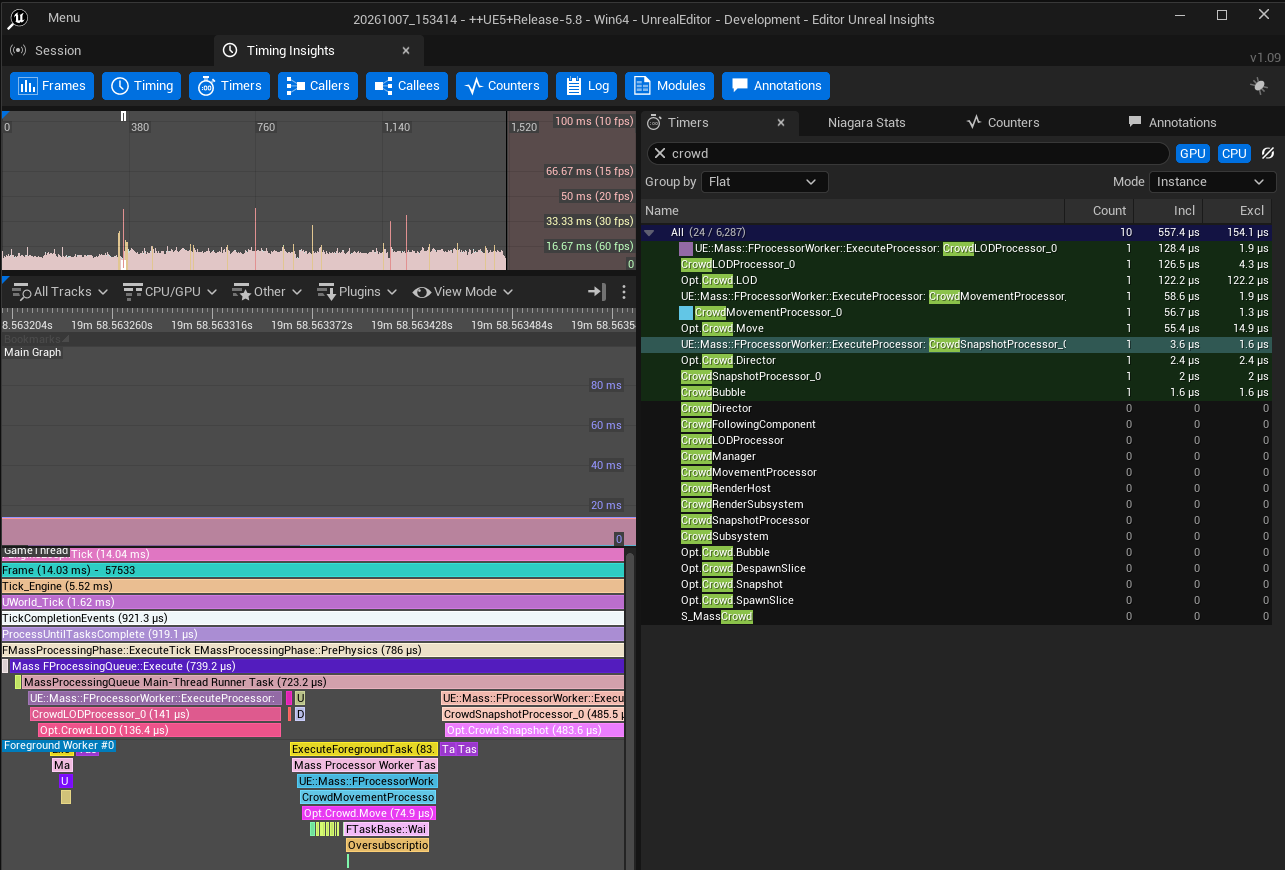
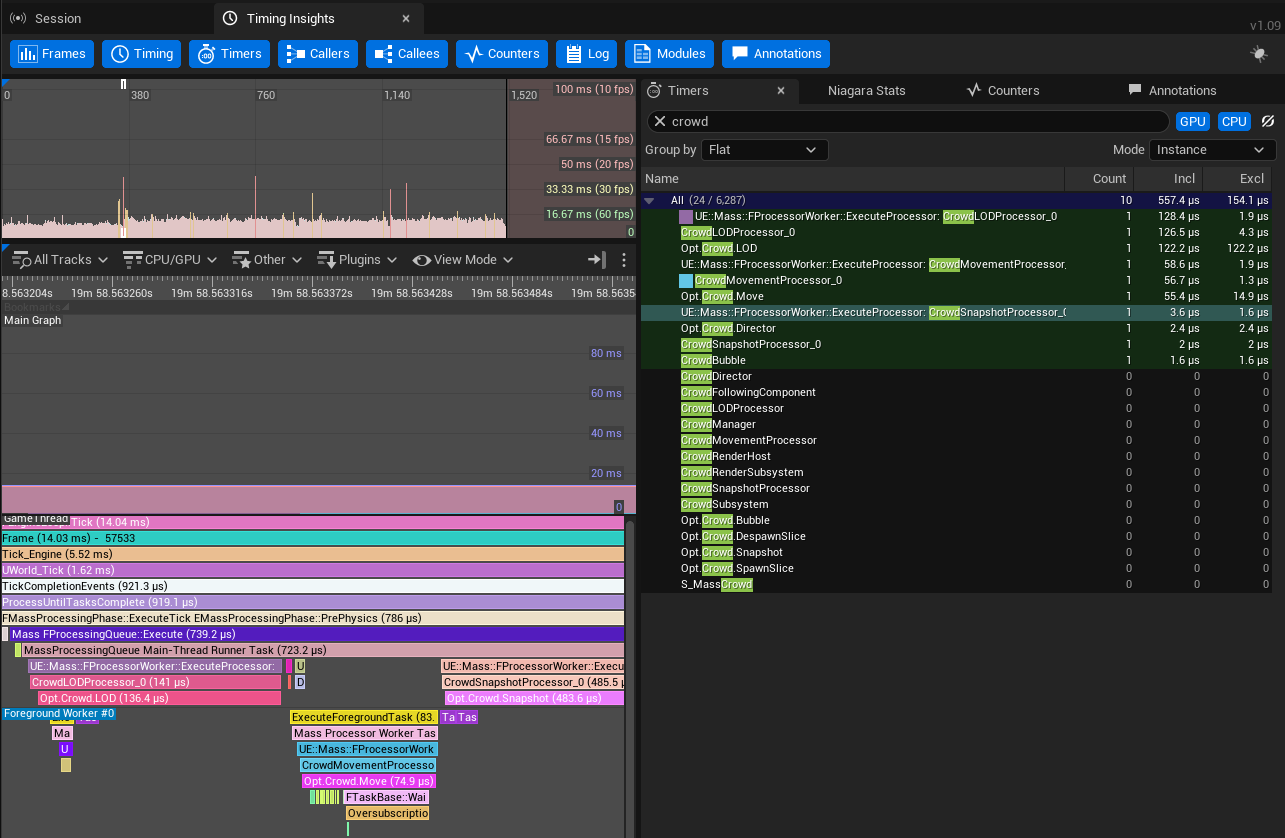
ReadMe 업데이트

diff --git a/MassBubble/README_EN.md b/MassBubble/README_EN.md
@@ -32,7 +32,7 @@ This is a reference implementation of a pipeline that **simulates thousands to t
 
 The design ensures that the following four cost axes each have an **observable upper bound**, regardless of how large the NPC population grows. Every optimization can be toggled individually via CVar kill switches, ensuring each is validated by measurement rather than assumption.
 
-| Cost Axis | Naive Implementation (Actor-per-NPC) | MassBubble |
+| Cost | Naive Implementation (Actor-per-NPC) | MassBubble |
 |---|---|---|
 | Server CPU · Simulation | Actor/Component Tick per NPC; all agents updated every frame | Processing over contiguous per-chunk arrays in Mass, distance-based LOD + time-slicing, parallel chunk processing |
 | Server CPU · Bandwidth · Replication | One ActorChannel per NPC, property comparison, full-state transmission | **One Actor per player**, Push Model, FastArray delta serialization, dead reckoning, 10-byte quantized records |
@@ -420,7 +420,7 @@ else                               { EntityQuery.ForEachEntityChunk(Context, Pro
 - **Wander Model (`CrowdWander.h`)** — An agent walks straight **segments** (`MinRetargetSec`–`MaxRetargetSec`) at constant velocity, and the next segment's heading is the previous heading plus a small turn (≤ `MaxTurnDeg`). One segment is exactly the (position, velocity) pair dead reckoning sends, so smooth-looking motion costs no extra bandwidth. At the region border it does not reflect: inside a **band** along the border every agent bends away at the same turn rate (`WallTurnRateDeg`), which keeps the density of the open ground uniform. A step is split at segment boundaries, so skipping frames with time-slicing walks the same path. The whole model is pure functions, verified by the `Crowd.Wander.*` tests.
 - Main-thread-bound dependencies (LOD evaluation, Snapshot generation) declare a `GameThreadOnly = true` trait via `TMassExternalSubsystemTraits` to enforce execution isolation.
 
-#### Editor Verification — Unreal Insights (PIE)
+#### Unreal Insights Verification
 
 <p align="center">
   <img src="Image/UnrealInsight_MassProcessor.PNG" alt="Unreal Insights - Mass processors" width="1000"><br>

diff --git a/MassBubble/README.md b/MassBubble/README.md
@@ -32,7 +32,7 @@
 
 NPC 규모가 커져도 아래 네 가지 비용이 모두 **관측 가능한 상한**을 갖도록 설계했습니다. 모든 최적화는 CVar 킬스위치로 개별 on/off 할 수 있어, 시뮬레이션을 통해서 확인합니다.
 
-| 비용 축 | 기존 구현 (Actor-per-NPC) | MassBubble 프로젝트 |
+| 비용 | 기존 구현 (Actor-per-NPC) | MassBubble 프로젝트 |
 |---|---|---|
 | 서버 CPU · 시뮬레이션 | NPC마다 Actor/Component Tick, 전원을 매 프레임 갱신 | Mass chunk 단위 연속된 배열로 처리, 거리 기반 LOD + time-slicing, 병렬 chunk 처리 |
 | 서버 CPU · 대역폭 · 복제 | NPC마다 ActorChannel, 프로퍼티 비교, 풀 상태 전송 | **플레이어당 Actor 1개**, Push Model, FastArray delta, Dead reckoning, 10 B 양자화 레코드 |
@@ -456,7 +456,7 @@ else
 - **배회 모델 (`CrowdWander.h`)** : agent는 직선 **구간**(`MinRetargetSec`–`MaxRetargetSec`)을 등속으로 걷고, 다음 구간의 방향은 이전 방향에 작은 회전(≤ `MaxTurnDeg`)을 더한 값입니다. 구간 하나가 곧 dead reckoning이 보낼 (위치, 속도) 한 쌍이라 부드러운 움직임이 대역폭을 더 쓰지 않습니다. region 경계에서는 반사하지 않고, 경계 안쪽 **band**에서 모든 agent가 같은 회전율(`WallTurnRateDeg`)로 휘어 빠져나오게 해 열린 땅의 밀도를 균일하게 유지합니다. 스텝은 구간 경계에서 쪼개지므로 time-slicing으로 건너뛰며 걸어도 같은 경로를 걷습니다. 모델 전체가 순수 함수이고 `Crowd.Wander.*` 테스트가 검증합니다.
 - `UCrowdSubsystem`은 `TMassExternalSubsystemTraits`에서 `GameThreadOnly = true`로 선언해, 이 서브시스템을 요구하는 프로세서(LOD, Snapshot)가 game thread에서만 접근하도록 명시합니다.
 
-#### 에디터 검증 — Unreal Insights
+#### Unreal Insights 검증
 
 <p align="center">
   <img src="Image/UnrealInsight_MassProcessor.PNG" alt="Unreal Insights - Mass processors" width="1000"><br>
